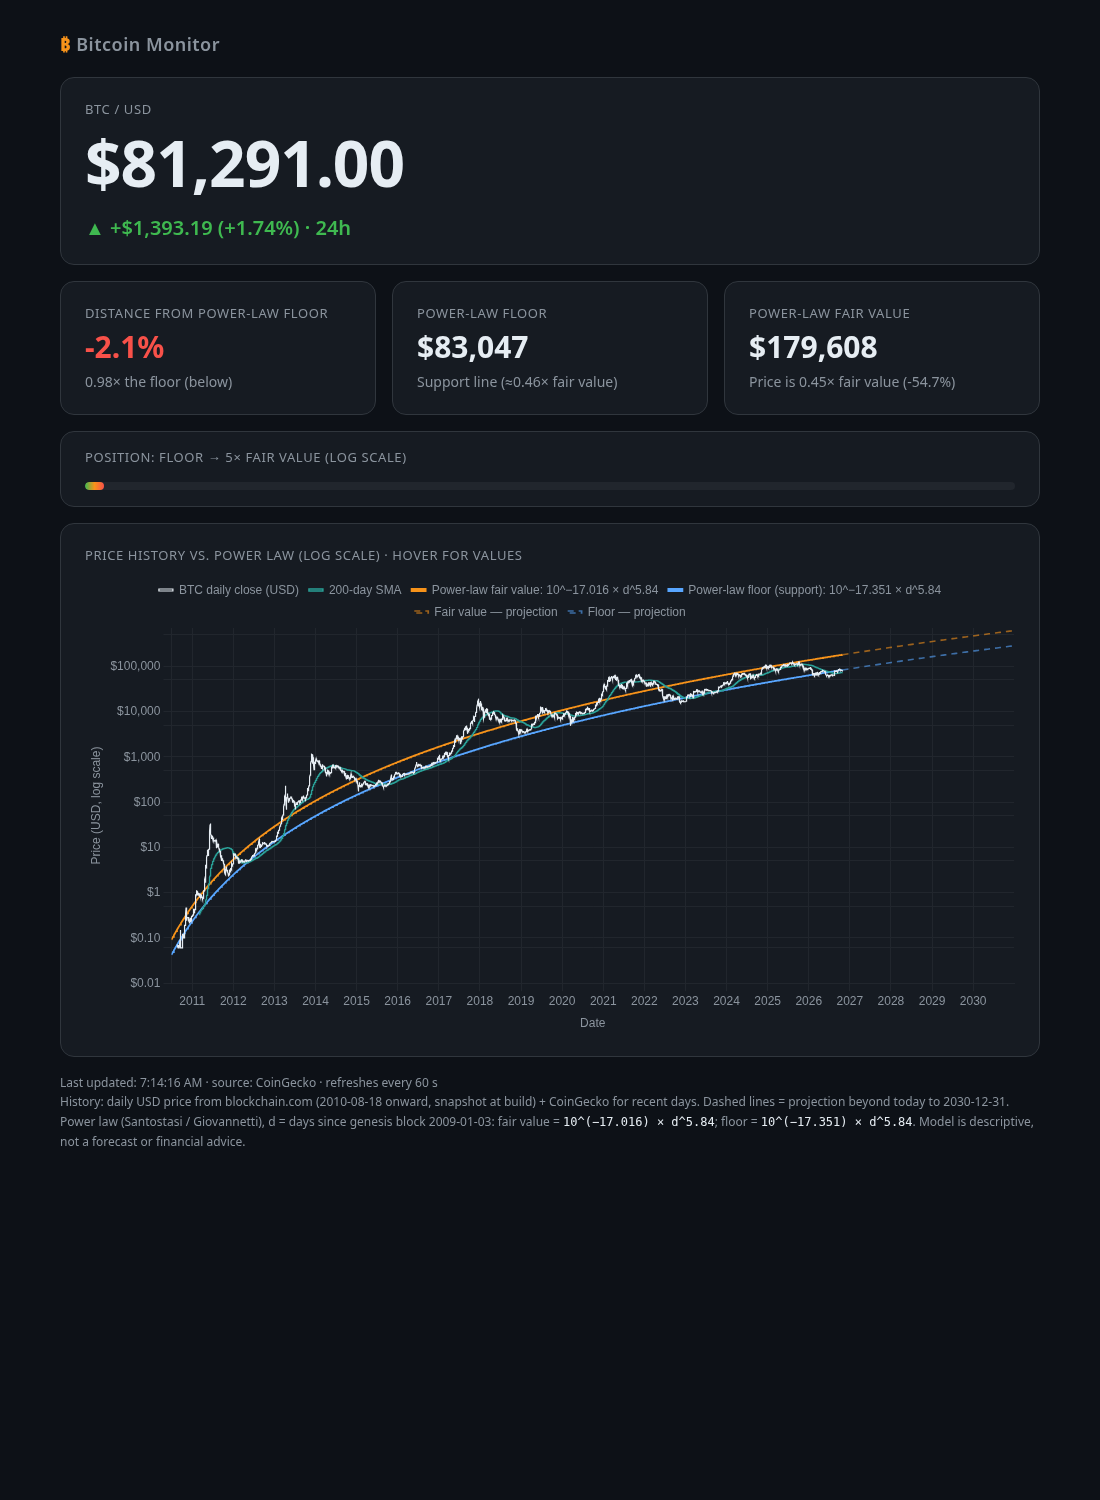
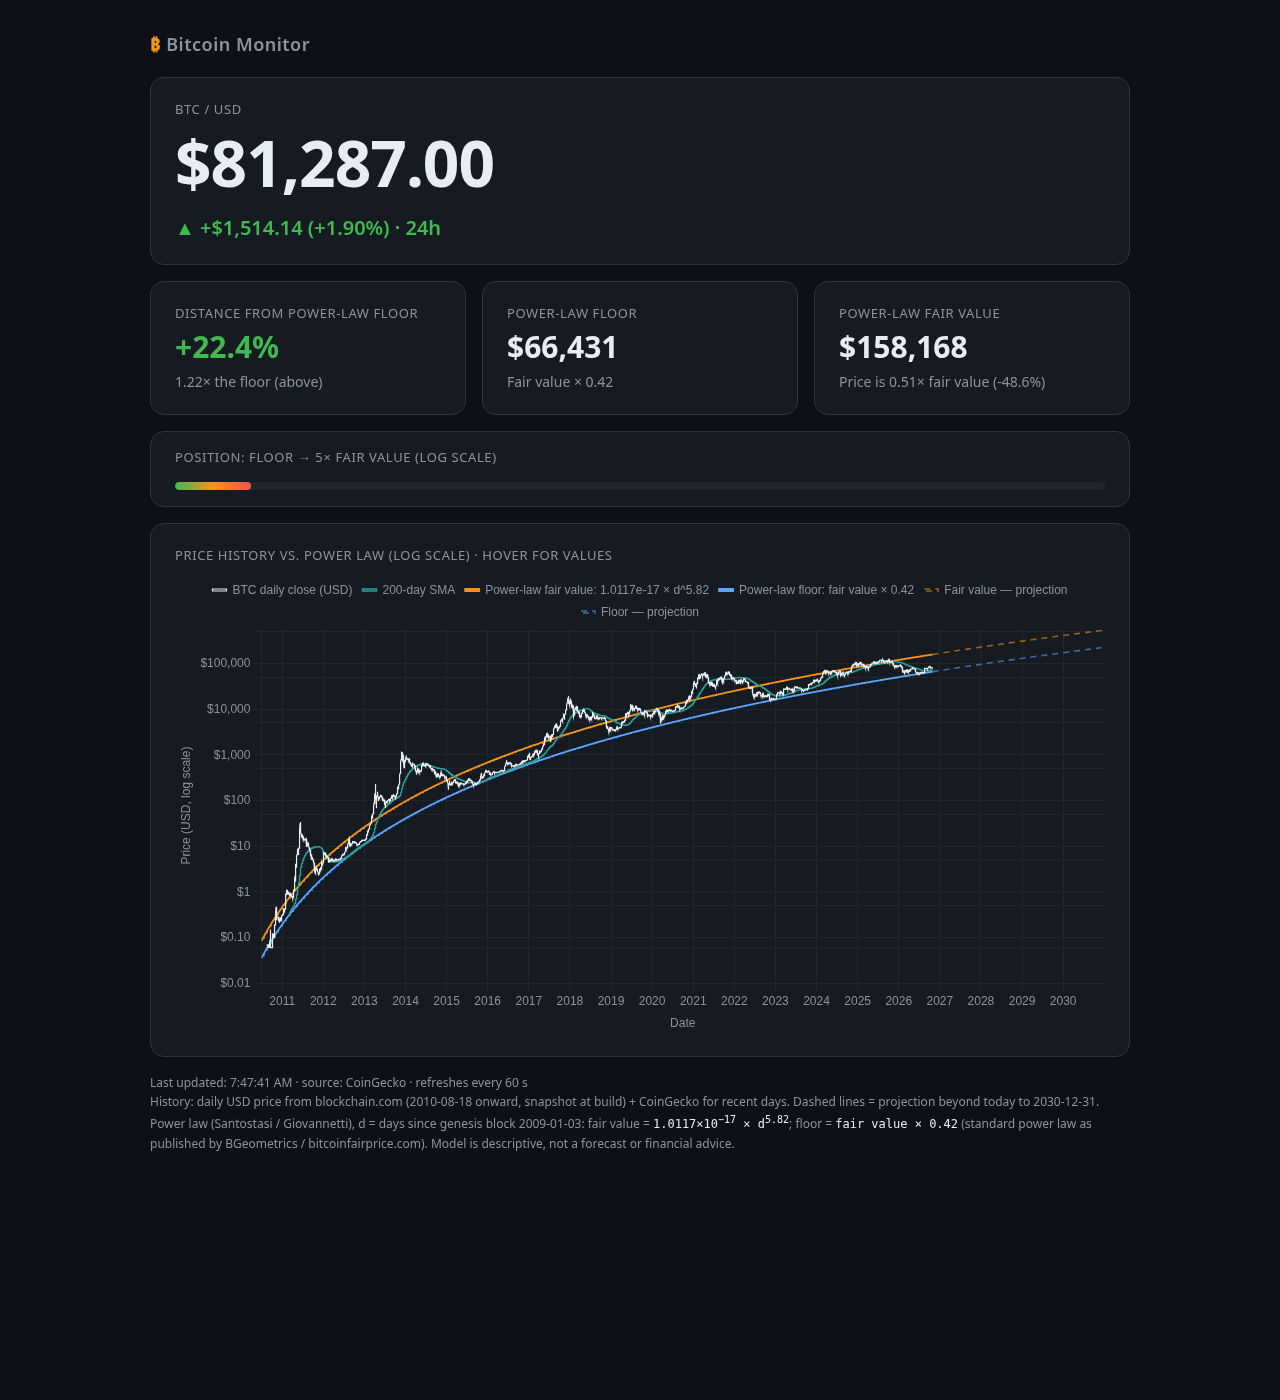
Switch the dashboard to the published power-law model.
Replace index.html and preview.png and update the README formula to fair value 1.0117e-17 × d^5.82 with floor at 0.42× fair value.

diff --git a/index.html b/index.html
@@ -32,7 +32,7 @@ main{max-width:980px}
 </div>
 <div class="grid">
   <div class="card"><div class="lbl">Distance from power-law floor</div><div class="big" id="pct">—</div><div class="sub" id="mult"></div></div>
-  <div class="card"><div class="lbl">Power-law floor</div><div class="big" id="floor">—</div><div class="sub">Support line (≈0.46× fair value)</div></div>
+  <div class="card"><div class="lbl">Power-law floor</div><div class="big" id="floor">—</div><div class="sub">Fair value × 0.42</div></div>
   <div class="card"><div class="lbl">Power-law fair value</div><div class="big" id="fair">—</div><div class="sub" id="fairrel"></div></div>
 </div>
 <div class="card" style="padding:16px 24px"><div class="lbl">Position: floor → 5× fair value (log scale)</div><div class="bar"><i id="barfill" style="width:0"></i></div></div>
@@ -41,7 +41,7 @@ main{max-width:980px}
   <div>Last updated: <span id="upd">—</span> · source: <span id="src">—</span> · refreshes every 60 s</div>
   <div>History: daily USD price from blockchain.com (2010‑08‑18 onward, snapshot at build) + CoinGecko for recent days. Dashed lines = projection beyond today to 2030‑12‑31.</div>
   <div>Power law (Santostasi / Giovannetti), d = days since genesis block 2009‑01‑03:
-  fair value = <code>10^(−17.016) × d^5.84</code>; floor = <code>10^(−17.351) × d^5.84</code>. Model is descriptive, not a forecast or financial advice.</div>
+  fair value = <code>1.0117×10<sup>−17</sup> × d<sup>5.82</sup></code>; floor = <code>fair value × 0.42</code> (standard power law as published by BGeometrics / bitcoinfairprice.com). Model is descriptive, not a forecast or financial advice.</div>
 </footer>
 </main>
 <script src="https://cdn.jsdelivr.net/npm/chart.js@4.4.4/dist/chart.umd.min.js"></script>
@@ -64,7 +64,7 @@ async function update(){
 }
 function render(p,abs,pct,name){
  const d=(Date.now()-GEN)/DAY, ld=Math.log10(d);
- const fair=10**(-17.016+5.84*ld), floor=10**(-17.351+5.84*ld);
+ const fair=1.0117e-17*10**(5.82*ld), floor=fair*0.42;
  $('price').textContent=usd(p,2);
  const up=abs>=0;$('chg').className='chg '+(up?'up':'dn');
  $('chg').textContent=`${up?'▲ +':'▼ −'}${usd(Math.abs(abs),2)} (${up?'+':'−'}${Math.abs(pct).toFixed(2)}%) · 24h`;
@@ -77,7 +77,7 @@ function render(p,abs,pct,name){
  $('upd').textContent=new Date().toLocaleTimeString();$('src').textContent=name;
 }
 
-const plv=(t,b)=>10**(b+5.84*Math.log10((t-GEN)/DAY));
+const plv=(t,k)=>k*1.0117e-17*((t-GEN)/DAY)**5.82;
 let chart,hist=[];
 async function initChart(){
  try{hist=await j('history.json')}catch(e){console.warn('history',e)}
@@ -92,10 +92,10 @@ async function initChart(){
  const FV='#f7931a',FL='#58a6ff';
  const ds=[
   {label:'BTC daily close (USD)',data:hist.map(([x,y])=>({x,y})),borderColor:'#e6edf3',borderWidth:1.2,pointRadius:0},
-  {label:'Power-law fair value: 10^−17.016 × d^5.84',data:line(past,-17.016),borderColor:FV,borderWidth:1.8,pointRadius:0},
-  {label:'Power-law floor (support): 10^−17.351 × d^5.84',data:line(past,-17.351),borderColor:FL,borderWidth:1.8,pointRadius:0},
-  {label:'Fair value — projection',data:line(fut,-17.016),borderColor:FV+'99',borderDash:[6,5],borderWidth:1.6,pointRadius:0},
-  {label:'Floor — projection',data:line(fut,-17.351),borderColor:FL+'99',borderDash:[6,5],borderWidth:1.6,pointRadius:0}];
+  {label:'Power-law fair value: 1.0117e-17 × d^5.82',data:line(past,1),borderColor:FV,borderWidth:1.8,pointRadius:0},
+  {label:'Power-law floor: fair value × 0.42',data:line(past,0.42),borderColor:FL,borderWidth:1.8,pointRadius:0},
+  {label:'Fair value — projection',data:line(fut,1),borderColor:FV+'99',borderDash:[6,5],borderWidth:1.6,pointRadius:0},
+  {label:'Floor — projection',data:line(fut,0.42),borderColor:FL+'99',borderDash:[6,5],borderWidth:1.6,pointRadius:0}];
  const sma=[];let acc=0;for(let i=0;i<hist.length;i++){acc+=hist[i][1];if(i>=200)acc-=hist[i-200][1];if(i>=199)sma.push({x:hist[i][0],y:acc/200})}
  ds.splice(1,0,{label:'200-day SMA',data:sma,borderColor:'#2aa198',borderWidth:1.4,pointRadius:0});
  Chart.defaults.color='#8b949e';Chart.defaults.borderColor='#21262d';

diff --git a/README.md b/README.md
@@ -5,7 +5,7 @@ Static single-page Bitcoin dashboard, live at https://rhoffman721.github.io/btc-
 ![Bitcoin dashboard](preview.png)
 
 - Live BTC price and 24h change (CoinGecko, falling back to Coinbase/Kraken).
-- Power-law fair value `10^-17.016 * d^5.84` and floor `10^-17.351 * d^5.84` (`d` = days since 2009-01-03).
+- Power-law fair value = 1.0117e-17 × d^5.82, floor = fair value × 0.42 (standard power law as published by BGeometrics / bitcoinfairprice.com). `d` = days since 2009-01-03.
 - Log-scale history chart from 2010 with a 200-day SMA and dashed projections to 2030.
 - 60s auto-refresh.
 
